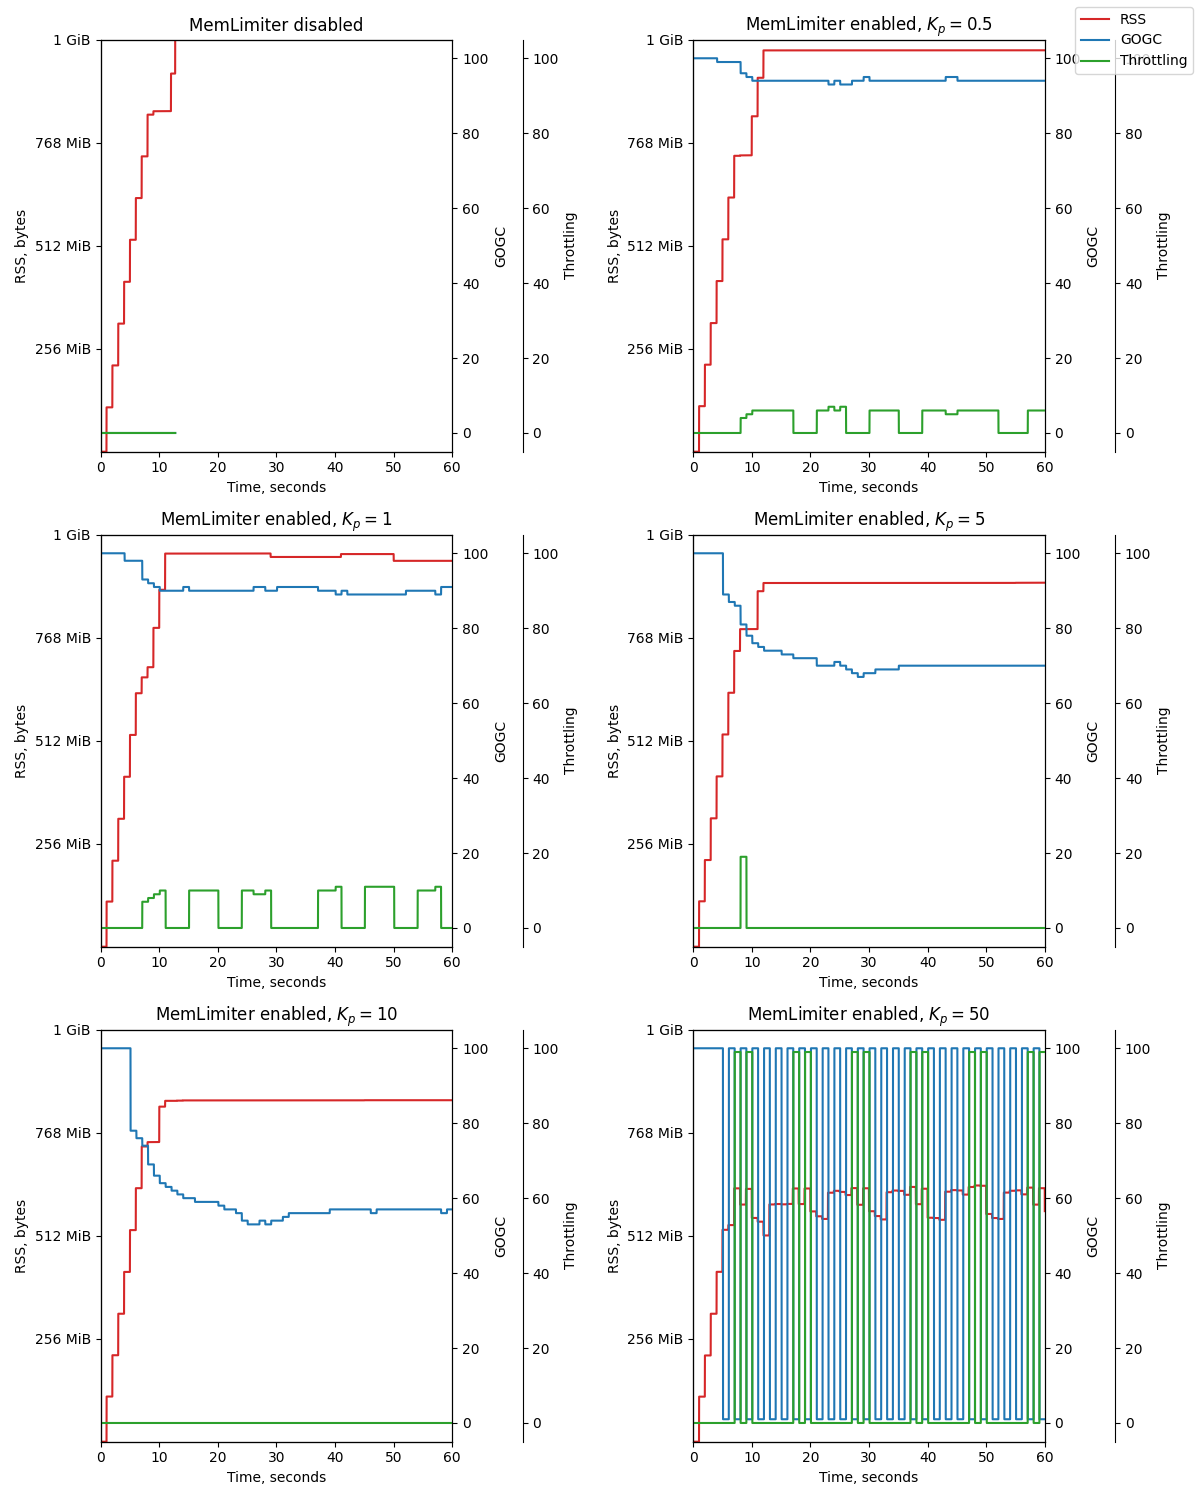
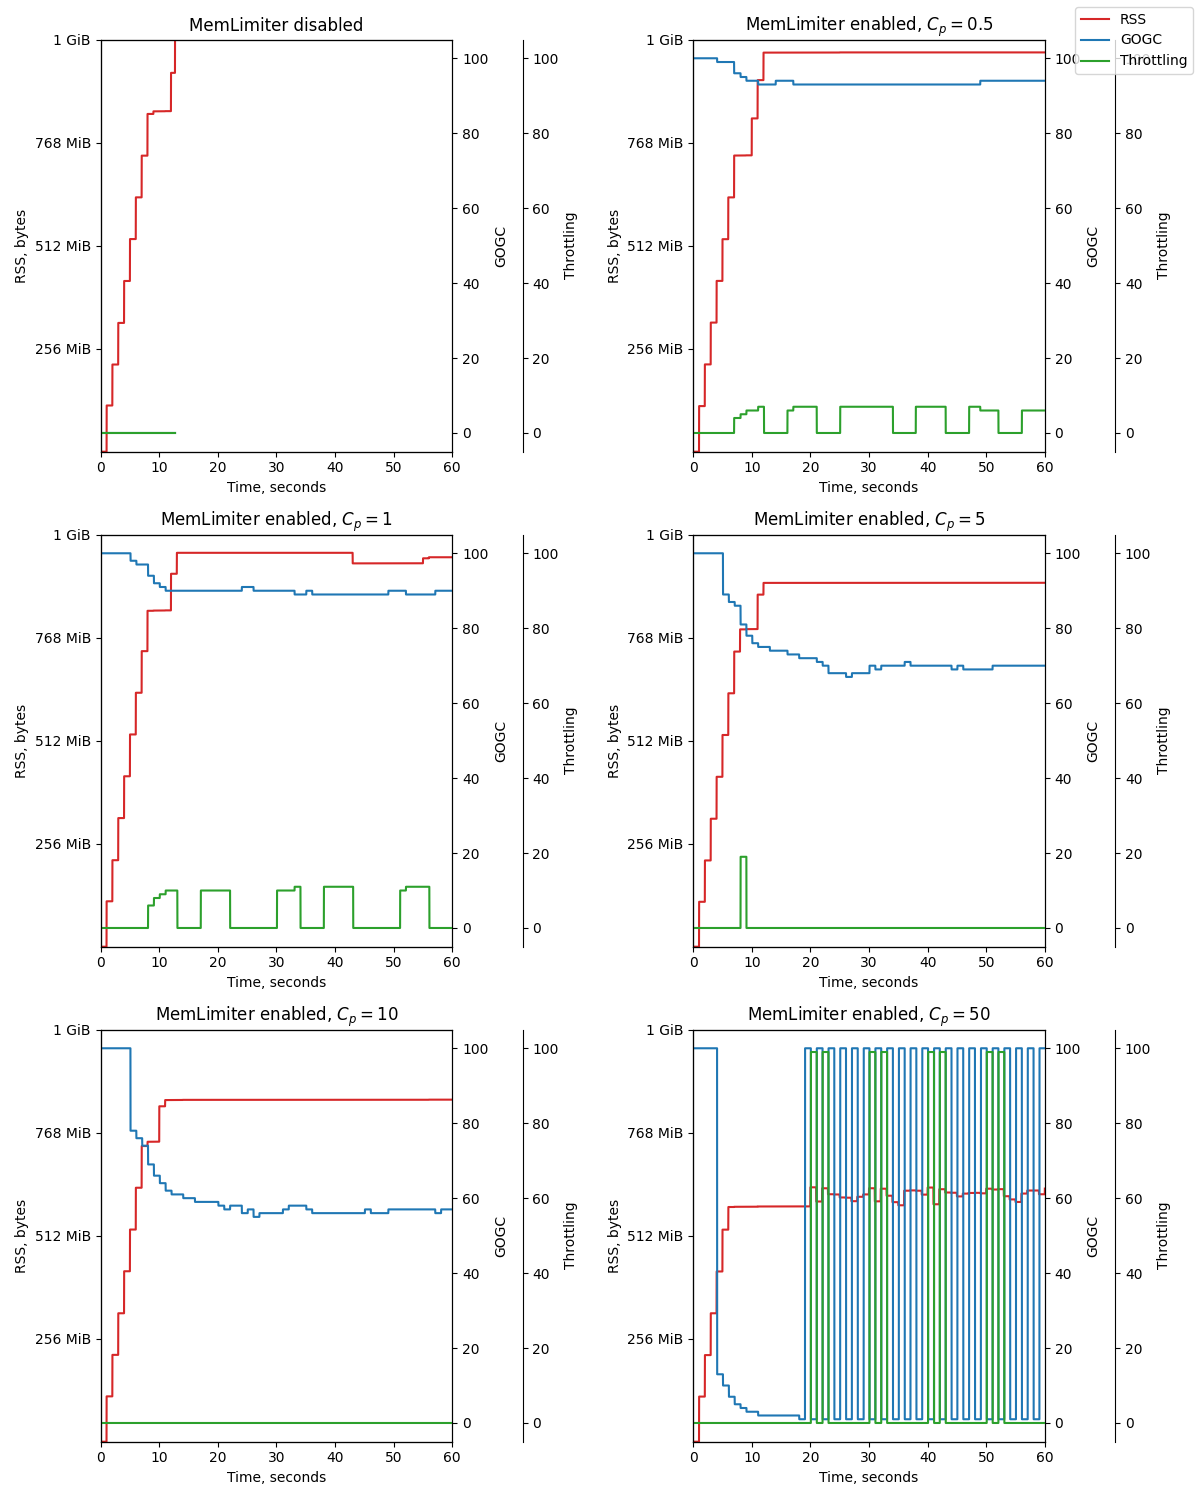
K_{p} -> C_{p}

diff --git a/backpressure/operator.go b/backpressure/operator.go
@@ -44,18 +44,18 @@ func (b *operatorImpl) GetStats() (*stats.BackpressureStats, error) {
 func (b *operatorImpl) SetControlParameters(value *stats.ControlParameters) error {
 	old := b.lastControlParameters.Swap(value)
 	if old != nil {
-		// если управляющие параметры не изменились, ничего не делаем
+		// if control parameters didn't change, we do nothing
 		if value.EqualsTo(old.(*stats.ControlParameters)) {
 			return nil
 		}
 	}
 
-	// регулируем количество поступающих запросов
+	// set the share of the requests that have to be throttled
 	if err := b.throttler.setThreshold(value.ThrottlingPercentage); err != nil {
 		return errors.Wrap(err, "throttler set threshold")
 	}
 
-	// и интенсивность сбора мусора
+	// tune GC pace
 	debug.SetGCPercent(value.GOGC)
 
 	b.logger.Info("control parameters changed", value.ToKeysAndValues()...)
@@ -63,7 +63,7 @@ func (b *operatorImpl) SetControlParameters(value *stats.ControlParameters) erro
 	return nil
 }
 
-// NewOperator - конструктор нового оператора.
+// NewOperator builds new Operator.
 func NewOperator(logger logr.Logger) Operator {
 	return &operatorImpl{
 		logger:    logger,

diff --git a/test/allocator/analyze/render.py b/test/allocator/analyze/render.py
@@ -72,7 +72,7 @@ def control_params_subplots(reports: List[Report], path: os.PathLike):
                 title = "MemLimiter disabled"
             else:
                 coefficient = report.session.params.coefficient_str
-                title = f'MemLimiter enabled, $K_{{p}} = {coefficient}$'
+                title = f'MemLimiter enabled, $C_{{p}} = {coefficient}$'
             ax.title.set_text(title)
 
     fig.legend(ls, labels)
@@ -97,11 +97,11 @@ def rss_pivot(reports: List[Report], path: os.PathLike):
         if report.session.params.unlimited:
             label = 'No limits'
         else:
-            label = f'$K_{{p}} = {report.session.params.coefficient_str}$'
+            label = f'$C_{{p}} = {report.session.params.coefficient_str}$'
 
         ax.plot(report.df['elapsed_time'], report.df['rss'], color=colors[i], label=label)
 
     ax.legend()
-    ax.title.set_text('RSS consumption dependence on $K_{{p}}$')
+    ax.title.set_text('RSS consumption dependence on $C_{{p}}$')
     fig.tight_layout()
     fig.savefig(path, transparent=False)

diff --git a/middleware/grpc.go b/middleware/grpc.go
@@ -17,7 +17,7 @@ import (
 )
 
 // GRPC provides server-side interceptors that must be used
-// at the time of grpcImpl server construction.
+// at the time of GRPC server construction.
 type GRPC interface {
 	// MakeUnaryServerInterceptor returns unary server interceptor.
 	MakeUnaryServerInterceptor() grpc.UnaryServerInterceptor

diff --git a/README.md b/README.md
@@ -30,11 +30,11 @@ $$Utilization = \frac {NextGC} {RSS_{limit}}$$
 
 The controller converts the input signal into the control signal according to the following formula:
 
-$$  K_{p} = C \cdot \frac {1} {1 - Utilization} $$
+$$  K_{p} = C_{p} \cdot \frac {1} {1 - Utilization} $$
 
 This is not an ordinary definition for a proportional component of the PID-controller, but still the direct proportionality is preserved: the closer the $Utilization$ is to 1 (or 100%), the higher the control signal value. The main purpose of the controller is to prevent a situation in which the next GC launch will be scheduled when the memory consumption exceeds the hard limit (and this will cause OOM).
 
-You can adjust the proportional component control signal strength using a coefficient $C$. In addition, there is optional [exponential averaging](https://en.wikipedia.org/wiki/Moving_average#Exponential_moving_average) of the control signal. This helps to smooth out high-frequency fluctuations of the control signal (but it hardly eliminates [self-oscillations](https://en.wikipedia.org/wiki/Self-oscillation)).
+You can adjust the proportional component control signal strength using a coefficient $C_{p}$. In addition, there is optional [exponential averaging](https://en.wikipedia.org/wiki/Moving_average#Exponential_moving_average) of the control signal. This helps to smooth out high-frequency fluctuations of the control signal (but it hardly eliminates [self-oscillations](https://en.wikipedia.org/wiki/Self-oscillation)).
 
 The control signal is always saturated to prevent extremal values:
 
@@ -87,7 +87,7 @@ There are several key settings in MemLimiter [configuration](controller/nextgc/c
 * `DangerZoneThrottling` 
 * `Period`
 * `WindowSize`
-* `Coefficient` ($K_{p}$)
+* `Coefficient` ($C_{p}$)
 
 You have to pick them empirically for your service. The settings must correspond to the business logic features of a particular service and to the workload expected.
 
@@ -99,17 +99,17 @@ Settings ranges:
 * $DangerZoneThrottling = 90%$
 * $Period = 100ms$
 * $WindowSize = 20$
-* $K_{p} \in \\{0, 0.5, 1, 5, 10, 50, 100\\}$
+* $C_{p} \in \\{0, 0.5, 1, 5, 10, 50, 100\\}$
 
-These plots may give you some inspiration on how $K_{p}$ value affects the physical memory consumption other things being equal:
+These plots may give you some inspiration on how $C_{p}$ value affects the physical memory consumption other things being equal:
 
 ![Control params](docs/control_params.png)
 
-And the summary plot with RSS consumption dependence on $K_{p}$ value:
+And the summary plot with RSS consumption dependence on $C_{p}$ value:
 
 ![RSS](docs/rss_hl.png)
 
 The general conclusion is that:
-* The higher the $K_{p}$ is, the lower the $RSS$ consumption.
-* Too low and too high $K_{p}$ values cause self-oscillation of control parameters;
-* Disabling MemLimiter causes OOM;
+* The higher the $C_{p}$ is, the lower the $RSS$ consumption.
+* Too low and too high $C_{p}$ values cause self-oscillation of control parameters.
+* Disabling MemLimiter causes OOM.
